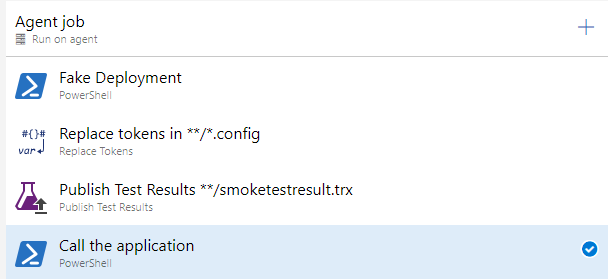
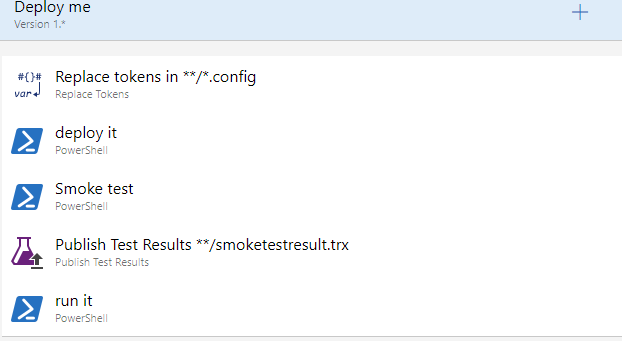
reworked smoketest to fail on false test

diff --git a/Smoke/SmokeBase.cs b/Smoke/SmokeBase.cs
@@ -18,9 +18,10 @@ namespace SelfDiagnosis
             {
                 try
                 {
-                    ValidateAppSetting(item);
-
-                    AddSucces(nameof(ConfigurationManager.AppSettings) + ":" + item.ToString());
+                    if (ValidateAppSetting(item))
+                        AddSucces(nameof(ConfigurationManager.AppSettings) + ":" + item.ToString());
+                    else
+                        AddFailure(nameof(ConfigurationManager.AppSettings) + ":" + item.ToString(), "Invalid");
                 }
                 catch (Exception ex)
                 {
@@ -32,8 +33,10 @@ namespace SelfDiagnosis
             {
                 try
                 {
-                    ValidateConfigSetting(item);
-                    AddSucces(nameof(ConfigurationManager.ConnectionStrings) + ":" + ((ConnectionStringSettings)item).Name);
+                    if (ValidateConfigSetting(item))
+                        AddSucces(nameof(ConfigurationManager.ConnectionStrings) + ":" + ((ConnectionStringSettings)item).Name);
+                    else
+                        AddFailure(nameof(ConfigurationManager.ConnectionStrings) + ":" + ((ConnectionStringSettings)item).Name, "Invalid");
                 }
                 catch (Exception ex)
                 {

diff --git a/Readme.md b/Readme.md
@@ -155,17 +155,7 @@ We are going to get the code from the github repo into your own Azure Devops Git
         ![alt text](./images/AddStageScopedVariables.png)
         * **Talk about the variables to understand its scoping and what each value means for each stage in your release pipeline**
         * `Save` your release pipeline
-    * Now we're going to `Edit` the `EchoConsole/app.release.config` file in your repository to use the `ApplicationEnvironment` variable:
-        ```
-        <?xml version="1.0" encoding="utf-8"?>
-        <!--For more information on using transformations see the web.config examples at http://go.microsoft.com/fwlink/?LinkId=214134. -->
-        <configuration xmlns:xdt="http://schemas.microsoft.com/XML-Document-Transform">
-            <appSettings>
-                <add key="ApplicationEnvironment" value="#{ApplicationEnvironment}#" xdt:Transform="Insert"/>
-            </appSettings>
-        </configuration>
-        ```
-	* Commit the change and watch your build complete and start your deployment automaticly first to dev, test, preprod, prod. After the release completes you can validate the injected values from the log for each environment.
+    * start a new release and watch your deployment going automaticly first to dev, test, preprod, prod. After the release completes you can validate the injected values from the log for each environment.
 
 1. Explain different possibilities for releasing, libraries, and taskgroups  
 Administering one pipeline can be easy, but what makes it hard is when you have hundreds. How can you make it easier to change multiple envrionments at once?
@@ -182,18 +172,12 @@ Administering one pipeline can be easy, but what makes it hard is when you have 
     * `Edit` the following code:
         * In EchoConsole/program.cs replace:  
         ```
-        if (args.Any())
-        {
-            Console.WriteLine($"Given argument {args.First()}");
-         }
+            Console.WriteLine(System.Configuration.ConfigurationManager.AppSettings.Get("ApplicationEnvironment"));            
         ```
         with:  
         ```
-        if (args.Any())
-        {
-            Console.WriteLine($"Given argument {args.First()}");
-        }
-        Console.WriteLine(System.Configuration.ConfigurationManager.AppSettings.Get("GeneralInfo"));
+            Console.WriteLine(System.Configuration.ConfigurationManager.AppSettings.Get("ApplicationEnvironment"));            
+            Console.WriteLine(System.Configuration.ConfigurationManager.AppSettings.Get("GeneralInfo")); 
         ```
     * check the changes in your build and deployment logs
 1. Add smoke tests to your deployment
@@ -201,12 +185,12 @@ Administering one pipeline can be easy, but what makes it hard is when you have 
     We just can't introduce new changes to our code and not test them. We have our unittest, and ofcourse the team will run tests on the test environment but we are changing configuration every step. We need to validat this before any of our customers uses our application. We do that by using smoke tests, and yes you do those tests also in production. There is a simple implementation in the code for the workshop. But how you implement depends on application type, architecture and environment. **But it is an absolute MUST, we can let an application crash just as hard using a configuration change as I can by changing the code**
     * Go to the earlier created `taskgroup`  
             ![](./images/AddedSmokeTests.png)
-        * add a new inline `powershell` script right after the `Replace token` step. Make use of this script:  
+        * add a new inline `powershell` script right after the `Deploy` step. Make use of this script:  
     `&"$(System.DefaultWorkingDirectory)/$(Release.PrimaryArtifactSourceAlias)/drop/EchoConsole/bin/Release/EchoConsole.exe" "-smoke"`
         * Next add `Publish Test results` step with:
             * Test result format `VSTest`
             * Test result files `**/smoketestresult.trx`
-            * Under Advanced change Run this task to `Even if a previous task has failed, unless the deployment was canceled`
+            * Under Control Options change Run this task to `Even if a previous task has failed, unless the deployment was canceled`
     * Save and start a new release, now you can see once an environment completes a percentage succeeded test, click on it and adujust the filter to find out what worked and what didn't.  
     ![](./images/TestOverview.png)  
     ![](./images/SmokeResults.png)
